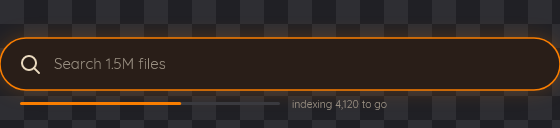
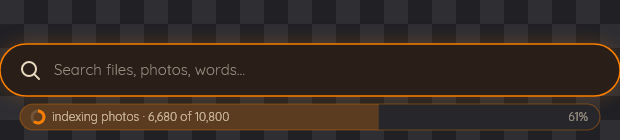
The card's progress pill hangs under the card, and the card ends where it says it does
The pill sat inside the card between the field and the hints, and the painter drew the
card's body at the height without it while the window was sized with it, so the hints
were painted onto the desktop below the card's bottom edge. It now hangs under the card
the way the capsule's hangs under the bar: SearchCardLayout.Height is the card,
WindowHeight is the card plus the pill's band, and a pixel test reads card, then
nothing, then pill down the middle of a render.

The capsule and settings shots in docs and on the site were two commits stale; both
copies are redrawn from the current painter.

Changed region(s): [[0.0, 0.5938, 1.0, 0.9375], [0.0, 0.2812, 1.0, 0.4062], [0.0304, 0.4062, 0.3946, 0.5938]]

diff --git a/src/Findra/Card/SearchCard.cs b/src/Findra/Card/SearchCard.cs
@@ -59,20 +59,33 @@ public static class SearchCardLayout
     public static SKRect SettingsRect()
         => new(Width - Pad - ContentW, FieldTop + FieldH + 5, Width - Pad, FieldTop + FieldH + 35);
 
+    /// <summary>The air between the card's bottom edge and the progress pill under it, and under
+    /// the pill before the window ends. The same 8px the capsule leaves between its bar and its
+    /// own pill, so the two surfaces hang the pill off themselves the same way.</summary>
+    public const float ProgressGap = 8f;
+
     /// <summary>
-    /// The progress pill, directly under the field and exactly as wide as it.
+    /// The progress pill: BELOW the card, in the window but outside the card's own shape, inset to
+    /// the card's padding at both ends. Its top depends on how tall the card is at that moment, so
+    /// it takes the same arguments <see cref="Height"/> does.
     ///
-    /// <para>Under the field rather than in the footer because the empty card - the one somebody
-    /// opens and looks at while nothing has been typed - has no footer, and that is precisely when
-    /// "how far has it got" is the question. It clears the Settings pill on the right by the same
-    /// margin the field does, since it is the field's own width.</para>
+    /// <para>It used to sit inside the card, between the field and the hints. That squeezed the
+    /// one surface whose job is the field against the one whose job is the count, and the card's
+    /// body was drawn at the height WITHOUT the pill while the window was sized WITH it - so the
+    /// hints were painted below the card's bottom edge onto the desktop. Below the card it is the
+    /// shape the capsule already has: a bar, and a pill of its own hanging under it.</para>
     /// </summary>
-    public static SKRect ProgressRect()
+    public static SKRect ProgressRect(int count, bool hasQuery, bool advOpen = false)
     {
-        float top = FieldTop + FieldH + 8f;
-        SKRect f = FieldRect();
-        return new SKRect(f.Left, top, f.Right, top + ProgressPillLayout.Height);
+        float top = Height(count, hasQuery, advOpen) + ProgressGap;
+        return new SKRect(Pad, top, Width - Pad, top + ProgressPillLayout.Height);
     }
+
+    /// <summary>The window's height: the card, and the progress pill under it when there is one.
+    /// The card itself is <see cref="Height"/>; everything that sizes a window or a bitmap takes
+    /// this one, and everything that draws or hit-tests the card takes that one.</summary>
+    public static float WindowHeight(int count, bool hasQuery, bool advOpen = false, bool progress = false)
+        => progress ? ProgressRect(count, hasQuery, advOpen).Bottom + ProgressGap : Height(count, hasQuery, advOpen);
 
     /// <summary>Where the header line's right-aligned half ends: the field's own right edge,
     /// NOT the card's. The pill column now reaches down into the header's band, and a timing
@@ -99,18 +112,13 @@ public static class SearchCardLayout
         return count == 0 ? RowH * 1.6f : Math.Max(rows, StageMinH);
     }
 
-    public static float Height(int count, bool hasQuery, bool advOpen = false, bool progress = false)
+    public static float Height(int count, bool hasQuery, bool advOpen = false)
     {
         // The empty card is the hint's height OR the pill column's, whichever needs more. It was
         // the hint's alone, which ended nine pixels above the bottom of the third pill.
-        //
-        // The progress pill pushes the hint down when there is one, and the card grows with it
-        // rather than reserving the band always: an empty strip under the field on an idle machine
-        // is the thing the pill exists to avoid drawing.
-        float hintTop = progress ? ProgressRect().Bottom : FieldTop + FieldH;
         float h = hasQuery
             ? BodyTop + BodyH(count, hasQuery) + FooterH
-            : Math.Max(hintTop + EmptyHintH + 6, SettingsRect().Bottom + Pad);
+            : Math.Max(FieldTop + FieldH + EmptyHintH + 6, SettingsRect().Bottom + Pad);
         // the popup draws inside this window, so the card grows to hold it while it is open
         return advOpen ? Math.Max(h, SearchAdvancedLayout.Panel().Bottom + 14) : h;
     }
@@ -254,7 +262,7 @@ public sealed record SearchCardState(
     /// whether the pill is alive.</summary>
     bool ContentOffered = true,
 
-    /// <summary>What the progress pill under the field says, or <c>default</c> for no pill. From
+    /// <summary>What the progress pill under the card says, or <c>default</c> for no pill. From
     /// <c>IndexStatus.Pill</c>, the same composer the capsule's pill and the tray's tooltip use.
     /// </summary>
     IndexProgress Progress = default)
@@ -340,7 +348,10 @@ public static class SearchCardPainter
 
         bool hasQuery = s.HasQuery;
         int count = s.Rows.Count;
+        // h is the CARD's height and total the window's: the progress pill hangs under the card in
+        // the gap between the two, and the card's own shape must end where Height says it does.
         float w = SearchCardLayout.Width, h = SearchCardLayout.Height(count, hasQuery, s.AdvOpen);
+        float total = SearchCardLayout.WindowHeight(count, hasQuery, s.AdvOpen, s.Progress.Show);
         // Two weights under the ink. Every one of them goes through d.Fade rather than
         // WithAlpha: a raw alpha carries the same light/dark asymmetry a raw mix fraction does,
         // and a ramp tuned on Mond reads a full step fainter on Paper without it.
@@ -358,7 +369,7 @@ public static class SearchCardPainter
         if (unfolding)
         {
             float fieldBottom = SearchCardLayout.FieldTop + SearchCardLayout.FieldH + 6;
-            float reveal = fieldBottom + (h - fieldBottom) * open;
+            float reveal = fieldBottom + (total - fieldBottom) * open;
             using var layer = new SKPaint { Color = SKColors.White.WithAlpha((byte)(255 * Math.Min(1f, 0.35f + open))) };
             canvas.SaveLayer(layer);
             canvas.ClipRect(new SKRect(0, 0, w, reveal));
@@ -408,14 +419,14 @@ public static class SearchCardPainter
         // Never latched on: settings is a place to go, not a mode the card is in.
         Pill(SearchCardLayout.SettingsRect(), SettingsLabel, false, s.HoverTarget == SearchTarget.Settings, false);
 
+        // Under the card, whatever the card is showing. It draws nothing at all when there is
+        // nothing to report, and the window is the card's own height in that case.
+        ProgressPill.Paint(canvas, SearchCardLayout.ProgressRect(count, hasQuery, s.AdvOpen), s.Progress, d, face);
+
         if (!hasQuery)
         {
-            // Under the field, above the hints. It draws nothing at all when there is nothing to
-            // report, and the hints sit where they always did in that case.
-            ProgressPill.Paint(canvas, SearchCardLayout.ProgressRect(), s.Progress, d, face);
-            float hintTop = s.Progress.Show ? SearchCardLayout.ProgressRect().Bottom : f.Bottom;
             CardText.Draw(canvas, EmptyHints[s.Content ? 1 : 0],
-                SearchCardLayout.Pad + 6, hintTop + 24, 12.5f, face, dim);
+                SearchCardLayout.Pad + 6, f.Bottom + 24, 12.5f, face, dim);
             if (s.AdvOpen) SearchAdvancedPainter.Paint(canvas, s, d, face);
             if (unfolding) canvas.Restore();
             return;

diff --git a/tests/Findra.Tests/Card/CardProgressTests.cs b/tests/Findra.Tests/Card/CardProgressTests.cs
@@ -1,0 +1,81 @@
+using Findra;
+using SkiaSharp;
+using Xunit;
+
+/// <summary>
+/// The card's progress pill hangs UNDER the card, outside its shape, the way the capsule's hangs
+/// under the bar. It used to sit inside the card between the field and the hints, and the card's
+/// body was drawn at the height without it while the window was sized with it - so the hints were
+/// painted onto the desktop below the card's bottom edge. These hold the geometry and the pixels.
+/// </summary>
+public class CardProgressTests
+{
+    private static readonly IndexProgress Working =
+        IndexStatus.Pill(true, nameof(ResultKind.Document), pending: 342, indexed: 688, alive: true);
+
+    public static IEnumerable<object[]> Shapes() =>
+    [
+        [0, false, false],   // the empty card
+        [0, false, true],    // the empty card with the advanced form open
+        [5, true, false],    // results
+        [0, true, false],    // no results
+    ];
+
+    [Theory]
+    [MemberData(nameof(Shapes))]
+    public void ThePillIsBelowTheCardWhateverTheCardIsShowing(int count, bool hasQuery, bool advOpen)
+    {
+        float card = SearchCardLayout.Height(count, hasQuery, advOpen);
+        SKRect pill = SearchCardLayout.ProgressRect(count, hasQuery, advOpen);
+
+        Assert.True(pill.Top >= card + SearchCardLayout.ProgressGap,
+            $"the pill starts at {pill.Top} on a card that ends at {card}");
+        Assert.Equal(SearchCardLayout.Pad, pill.Left, 3);
+        Assert.Equal(SearchCardLayout.Width - SearchCardLayout.Pad, pill.Right, 3);
+    }
+
+    [Theory]
+    [MemberData(nameof(Shapes))]
+    public void TheWindowHoldsThePillAndNothingElseGrows(int count, bool hasQuery, bool advOpen)
+    {
+        // The card is the same height with the pill and without it: the pill adds a band to the
+        // WINDOW. Anything that read the card's height as the window's put the hints outside.
+        float card = SearchCardLayout.Height(count, hasQuery, advOpen);
+        Assert.Equal(card, SearchCardLayout.WindowHeight(count, hasQuery, advOpen, progress: false), 3);
+        Assert.True(SearchCardLayout.WindowHeight(count, hasQuery, advOpen, progress: true)
+                    >= SearchCardLayout.ProgressRect(count, hasQuery, advOpen).Bottom);
+    }
+
+    [Fact]
+    public void TheCardEndsWhereItSaysAndThePillIsPaintedInTheGapBelowIt()
+    {
+        // Rendered rather than measured: the defect was a painter that drew the card's body to one
+        // height and the window to another, and no rectangle can see that. A column of pixels
+        // down the middle has to read card, then desktop, then pill.
+        SearchCardState s = SearchCardState.Empty with { Clock = 0.2, Progress = Working };
+        int w = (int)SearchCardLayout.Width;
+        int h = (int)Math.Ceiling(SearchCardLayout.WindowHeight(0, false, false, progress: true));
+        float card = SearchCardLayout.Height(0, false);
+        SKRect pill = SearchCardLayout.ProgressRect(0, false);
+
+        using var bmp = new SKBitmap(new SKImageInfo(w, h, SKColorType.Bgra8888, SKAlphaType.Premul));
+        using (var canvas = new SKCanvas(bmp))
+            SearchCardPainter.Paint(canvas, s, Derived.From(Palette.Mond), Parts.Face);
+
+        int x = w / 2;
+        Assert.True(bmp.GetPixel(x, (int)card - 3).Alpha > 200, "the card's body stops short of its own bottom edge");
+        Assert.Equal(0, bmp.GetPixel(x, (int)(card + SearchCardLayout.ProgressGap / 2)).Alpha);
+        Assert.True(bmp.GetPixel(x, (int)pill.MidY).Alpha > 200, "nothing is painted where the pill should be");
+        Assert.Equal(0, bmp.GetPixel(x, h - 1).Alpha);
+    }
+
+    [Fact]
+    public void NoPillMeansNoBandUnderTheCard()
+    {
+        // Show false is no pill at all, not a pill at zero - and no gap reserved for one either.
+        SearchCardState s = SearchCardState.Empty with { Clock = 0.2 };
+        Assert.False(s.Progress.Show);
+        Assert.Equal(SearchCardLayout.Height(0, false),
+                     SearchCardLayout.WindowHeight(0, false, false, s.Progress.Show), 3);
+    }
+}

diff --git a/src/Findra/Card/CardWindow.cs b/src/Findra/Card/CardWindow.cs
@@ -211,7 +211,7 @@ public sealed class CardWindow : Window
         public event Action? ContentReadingRequested;
 
         public double CardWidth => SearchCardLayout.Width * _scale;
-        public double CardHeight => SearchCardLayout.Height(_state.Rows.Count, _state.HasQuery, _state.AdvOpen, _state.Progress.Show) * _scale;
+        public double CardHeight => SearchCardLayout.WindowHeight(_state.Rows.Count, _state.HasQuery, _state.AdvOpen, _state.Progress.Show) * _scale;
 
         public CardCanvas(Derived derived, double scale, Window owner, ContentDb? db,
                           Semantic? semantic = null, CapabilitySet installed = default)
@@ -347,7 +347,7 @@ public sealed class CardWindow : Window
             _contentOffered = ContentPill.Offers(
                 pillOn: _state.Content, haveStore: true, readingOn: contentOn,
                 indexed: indexed < 0 ? null : indexed);
-            // And the pill under the field, from the same reading and the same composer the
+            // And the pill under the card, from the same reading and the same composer the
             // capsule and the tray's tooltip use.
             // evenWhenSettled: this is a window somebody opened, and it owes an answer whether or
             // not there is work in hand. The capsule, which is on the desktop all day, does not.

diff --git a/tests/Findra.Tests/App/CardPlacementTests.cs b/tests/Findra.Tests/App/CardPlacementTests.cs
@@ -32,10 +32,12 @@ public class CardPlacementTests
     public void TheGrownSizeIsTheCardWithAFullPageOfResults()
     {
         // Not the empty card: the window grows in place the moment results land and is never
-        // moved again, so the height that has to fit on screen is the tallest one.
+        // moved again, so the height that has to fit on screen is the tallest one - and that is
+        // the WINDOW with the progress pill hanging under the card, not the card alone.
         PixelSize grown = CardPlacement.GrownSize(1.0, 1.0);
         Assert.Equal((int)Math.Round(SearchCardLayout.Width), grown.Width);
-        Assert.Equal((int)Math.Round(SearchCardLayout.Height(SearchCardLayout.MaxRows, true)), grown.Height);
+        Assert.Equal((int)Math.Round(SearchCardLayout.WindowHeight(SearchCardLayout.MaxRows, true, progress: true)), grown.Height);
+        Assert.True(grown.Height > SearchCardLayout.Height(SearchCardLayout.MaxRows, true));
     }
 
     [Fact]

diff --git a/src/Findra/Diagnostics/SearchShot.cs b/src/Findra/Diagnostics/SearchShot.cs
@@ -289,7 +289,7 @@ public static class SearchShot
     {
         SearchCardState s = Build(state);
         int w = (int)Math.Ceiling(SearchCardLayout.Width);
-        int h = (int)Math.Ceiling(SearchCardLayout.Height(s.Rows.Count, s.HasQuery, s.AdvOpen, s.Progress.Show));
+        int h = (int)Math.Ceiling(SearchCardLayout.WindowHeight(s.Rows.Count, s.HasQuery, s.AdvOpen, s.Progress.Show));
         var info = new SKImageInfo(w, h, SKColorType.Bgra8888, SKAlphaType.Premul);
         using SKSurface surface = SKSurface.Create(info);
         SearchCardPainter.Paint(surface.Canvas, s, d, face);

diff --git a/src/Findra/App/App.axaml.cs b/src/Findra/App/App.axaml.cs
@@ -68,7 +68,7 @@ public static class CardPlacement
     /// empty card puts the grown one off the bottom of a short screen.</summary>
     public static PixelSize GrownSize(double zoom, double scaling) => new(
         (int)Math.Round(SearchCardLayout.Width * zoom * scaling),
-        (int)Math.Round(SearchCardLayout.Height(SearchCardLayout.MaxRows, true) * zoom * scaling));
+        (int)Math.Round(SearchCardLayout.WindowHeight(SearchCardLayout.MaxRows, true, progress: true) * zoom * scaling));
 
     public static PixelPoint Centred(PixelRect workingArea, int width, int height)
     {

diff --git a/src/Findra/Card/CardOverPlacement.cs b/src/Findra/Card/CardOverPlacement.cs
@@ -30,7 +30,7 @@ public static class CardOverPlacement
         double s = screenScaling > 0 ? screenScaling : 1.0;
         return new PixelSize(
             (int)Math.Ceiling(SearchCardLayout.Width * zoom * s),
-            (int)Math.Ceiling(SearchCardLayout.Height(SearchCardLayout.MaxRows, true) * zoom * s));
+            (int)Math.Ceiling(SearchCardLayout.WindowHeight(SearchCardLayout.MaxRows, true, progress: true) * zoom * s));
     }
 
     /// <param name="widgetPos">The widget window's top-left, in physical pixels.</param>

diff --git a/tests/Findra.Tests/Card/CapsuleTests.cs b/tests/Findra.Tests/Card/CapsuleTests.cs
@@ -53,7 +53,7 @@ public class CapsuleTests
         foreach ((string where, SKRect r) in new[]
                  {
                      ("the capsule", CapsuleLayout.PillRect()),
-                     ("the card", SearchCardLayout.ProgressRect()),
+                     ("the card", SearchCardLayout.ProgressRect(0, hasQuery: false)),
                  })
         {
             float room = r.Right - (r.Left + ProgressPillLayout.Inset + ProgressPillLayout.Ring * 2 + 8f)

diff --git a/CLAUDE.md b/CLAUDE.md
@@ -257,15 +257,15 @@ over a card somebody has just opened is not undone by pressing anything.
 
 ## The progress pill
 
-Under the card's field and under the capsule's bar: a dial, what is being read, the count, and the
+Under the card and under the capsule's bar: a dial, what is being read, the count, and the
 percentage at the far end. **The pill IS the bar** - the fill runs left to right underneath the
 words rather than beside them, so the shape carries the number and the eye reads it without
 reading it.
 
 - **`ProgressPill` paints it and both surfaces go through it.** They show one fact seen in two
   places; two painters is two answers waiting to differ. Each surface supplies only its own
-  rectangle, which is the one thing they are allowed to disagree about - the card's is the field's
-  width, the capsule's is the bar's.
+  rectangle, which is the one thing they are allowed to disagree about - the card's is the card's
+  width less its padding, the capsule's is the bar's.
 - **The card always shows it; the capsule shows it only while there is work.** `evenWhenSettled`
   is the difference and it is not a preference. The capsule is on the desktop all day with nothing
   asked of it, and a pill sitting there reading "up to date" is a widget that looks busy doing
@@ -273,8 +273,13 @@ reading it.
   they opened it with - drawing nothing there is indistinguishable from a broken feature, which is
   exactly how it read to the first person who went looking for this pill on a machine whose first
   pass had finished while they were installing.
-- **It changes the card's HEIGHT**, so `SearchCardLayout.Height` takes it. The empty card is 154
-  rather than 129 whenever a pill is drawn.
+- **It hangs BELOW the card, outside the card's shape**, the way the capsule's hangs under the bar.
+  `SearchCardLayout.Height` is the card and `WindowHeight` is the card plus the pill's band; sizing
+  a window or a bitmap takes the second, drawing or hit-testing the card takes the first. It sat
+  inside the card once, between the field and the hints, and the painter drew the card's body at
+  the height WITHOUT the pill while the window was sized WITH it - so the hints were painted onto
+  the desktop under the card's bottom edge. `CardProgressTests` reads a column of pixels down the
+  middle of a render and requires card, then nothing, then pill.
 - **`IndexStatus.Doing` maps the kind to a word, and it switches on the ENUM.** It was written on
   strings, matching `"Doc"` - the column heading `--searchindex` prints - against a value that is
   `"Document"`. Documents are most of what a first pass finds, so the noun vanished for nearly

diff --git a/CHANGELOG.md b/CHANGELOG.md
@@ -599,9 +599,10 @@ into a numbered section on the first release.
   video frames and transcripts - every part that needs a model - could not be tested without a
   screen at all. It now runs the same path the card runs and prints what each hit scored and why.
 
-- **The card shows how far the index has got, under the search field.** A pill with a dial, what
+- **The card shows how far the index has got, in a pill hanging under the card.** A dial, what
   is being read, the count and the percentage - and the pill itself is the bar, filling left to
-  right underneath the words. It is always there when the card is open: reading, paused, off, or
+  right underneath the words. It sits below the card the way the capsule's sits below the bar,
+  rather than squeezed between the field and the hints inside it. It is always there when the card is open: reading, paused, off, or
   "up to date, 12,480 files" once a pass has finished. The desktop capsule carries the same pill
   from the same painter but stays quiet when there is no work, because it sits on the desktop all
   day and a widget that says "up to date" for eight hours is one that looks busy doing nothing.
